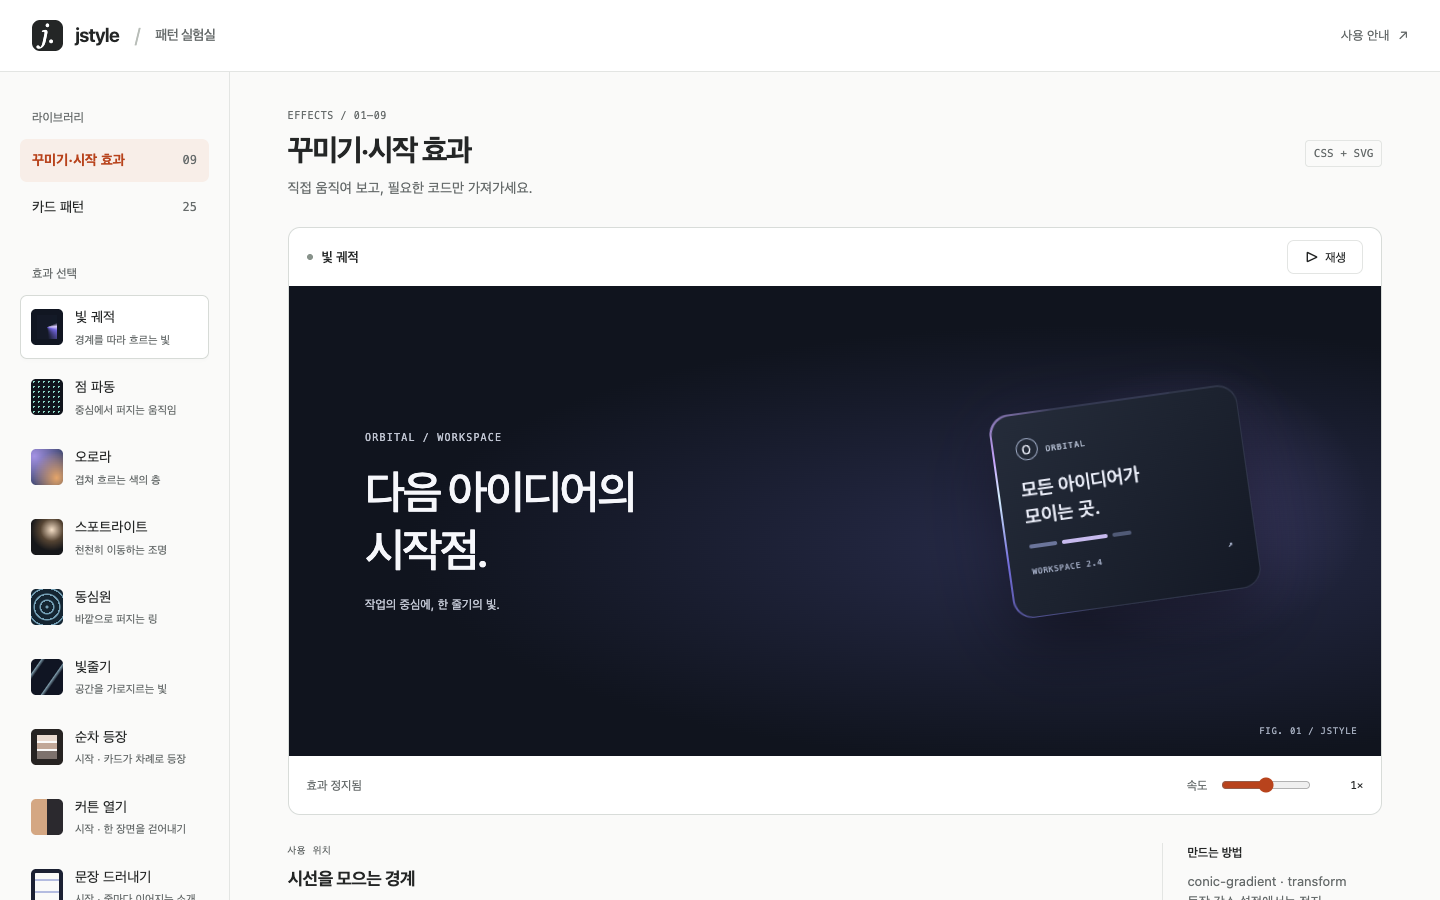
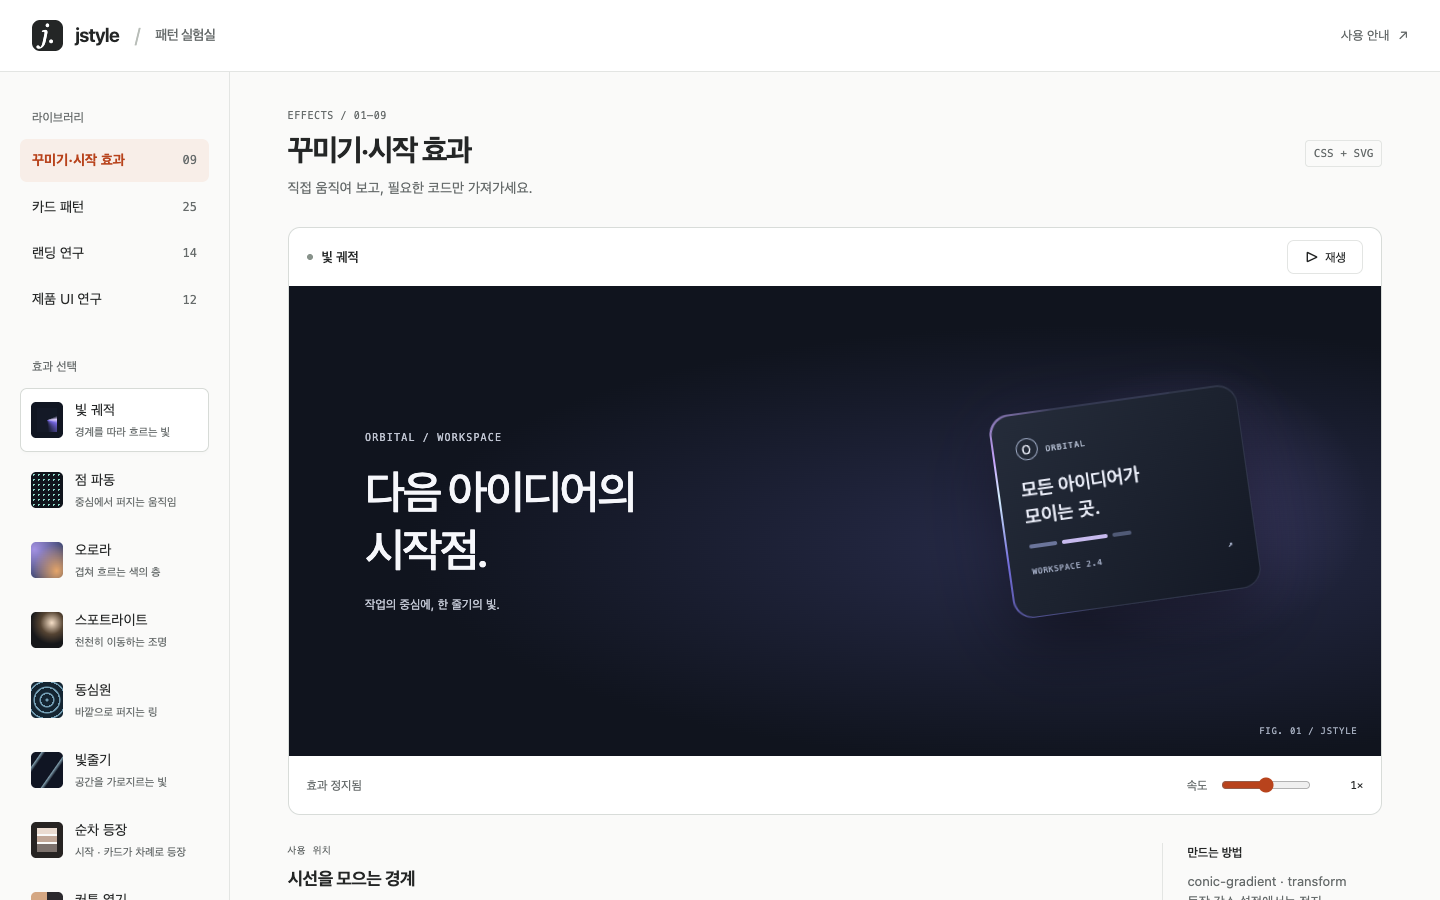
docs(readme): link language versions and add current UI screenshots
Replace the pattern library screenshot and add product UI study, component kit, and comparison page screenshots. The English README uses an English comparison page. The library description lists all four sections and the kit command.

Claude-Session: https://claude.ai/code/session_01TGVUgPkoGfQyWGKMNMJt5d

Changed region(s): [[0.0, 0.28, 0.1562, 1.0]]

diff --git a/README.en.md b/README.en.md
@@ -1,10 +1,12 @@
 # jstyle
 
+[한국어](README.md)
+
 jstyle is a UI design skill for AI agents. It helps an agent set a design direction and check a real interface.
 
 ![An illustration of a wireframe, an effect preview, and a component card](assets/readme/jstyle-workflow.png)
 
-The library has 25 card patterns and nine visual and entry effects. Select an effect, change its speed, and copy its standalone HTML.
+The pattern library has nine visual and entry effects, 25 card patterns, 14 landing studies, and 12 product UI studies. Select an effect, change its speed, and copy its standalone HTML.
 
 ![The jstyle pattern library with the light orbit effect](assets/readme/pattern-library.png)
 
@@ -59,6 +61,18 @@ node bin/jstyle.mjs library
 
 The pattern library opens in the browser. If it does not open, open the address in the terminal output. Select an effect and press the play button. Open the code panel to copy the standalone HTML. Use search or a category filter to find a card pattern.
 
+The landing and product UI studies rebuild tokens and screen patterns from public pages and product screens. All person and team names are mock data. The library pages are in Korean.
+
+![The product UI study with a member profile sheet](assets/readme/product-ui-study.png)
+
+Use the component kit for dense business screens, such as lists, tables, settings, and approvals. Add `kit.css` and `kit.js` to a page. No build step is necessary. To open the kit documentation, run:
+
+```bash
+node bin/jstyle.mjs kit
+```
+
+![The first page of the jstyle kit documentation with color tokens](assets/readme/component-kit.png)
+
 The examples use mock data. The page keeps edits in memory until you refresh it. The examples do not connect to authentication or server storage.
 
 ## Compare design drafts
@@ -73,6 +87,8 @@ The agent first describes each direction in text. If you want to see the screens
 
 The comparison page shows the drafts side by side or one at a time at full size. The default screen sizes are 1280×900 for desktop and 390×844 for mobile.
 Press **Select** on the draft that you prefer. The page copies a sentence such as `Round 01: Go with 02 Name`. Send this sentence and your comments to the agent. The agent continues with the selected draft.
+
+![A comparison page with three drafts of an order dashboard side by side](assets/readme/style-explorer.en.png)
 
 If you already have drafts, make the comparison page yourself:
 
